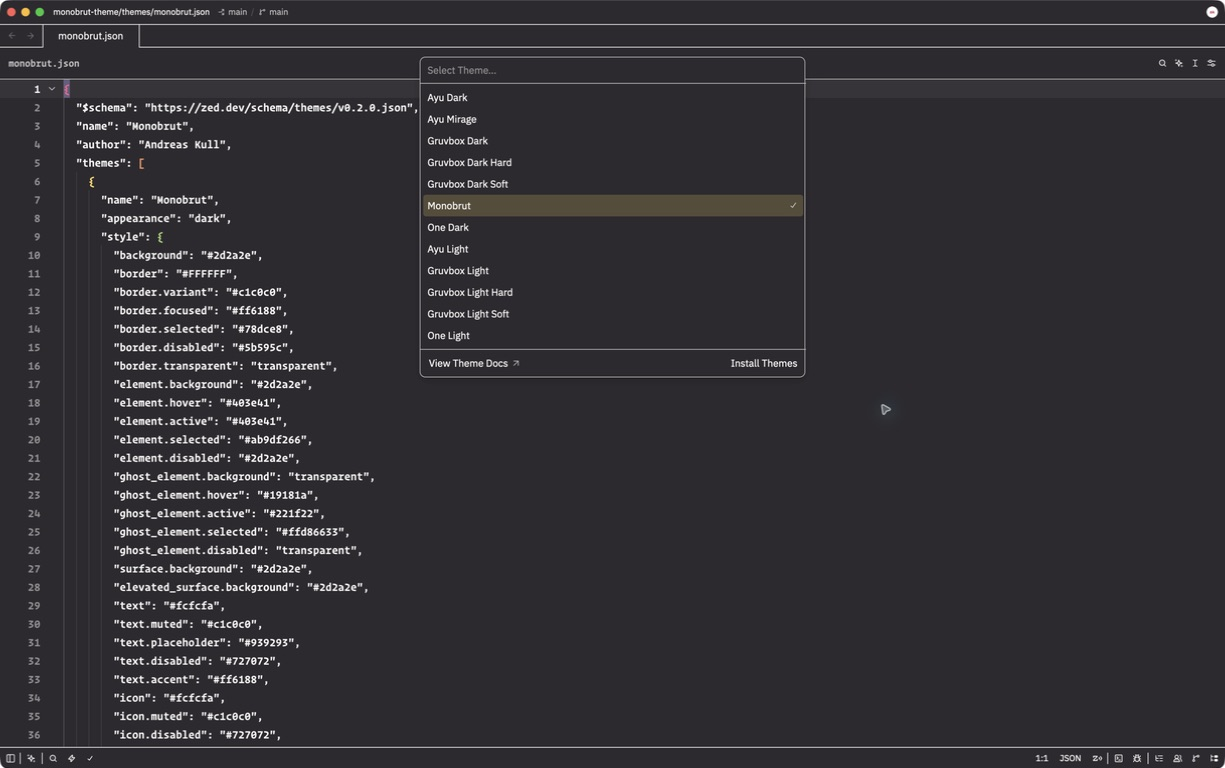
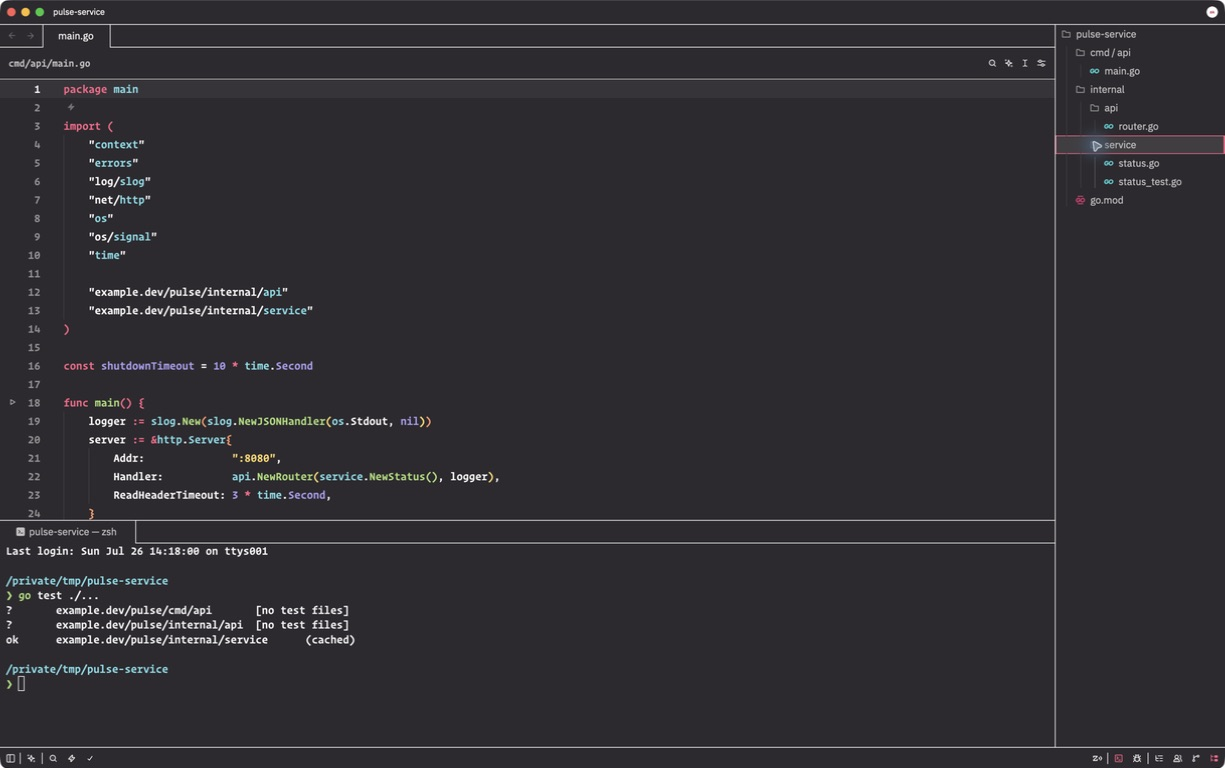
Improve theme screenshot

diff --git a/README.md b/README.md
@@ -3,7 +3,7 @@
 A dark, high-contrast theme for [Zed](https://zed.dev/) with crisp borders and
 a compact six-color accent palette.
 
-![Monobrut theme in Zed](assets/monobrut.jpg)
+![Monobrut theme in Zed with a Go service, project navigation, and terminal](assets/monobrut.jpg)
 
 ## Installation
 
